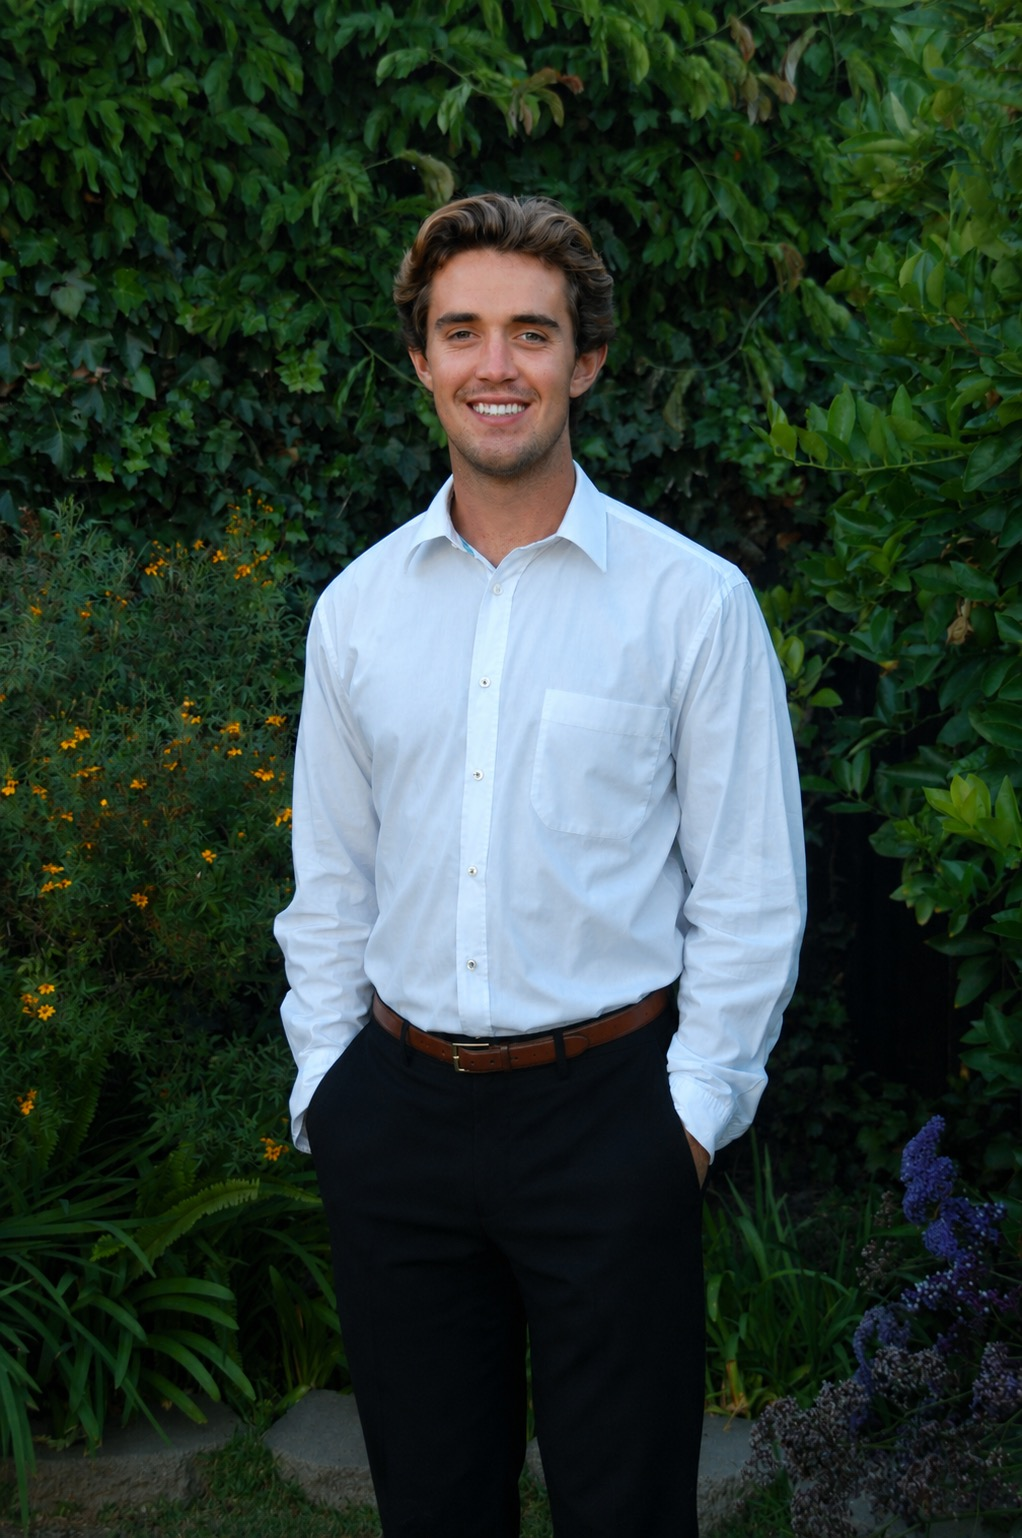
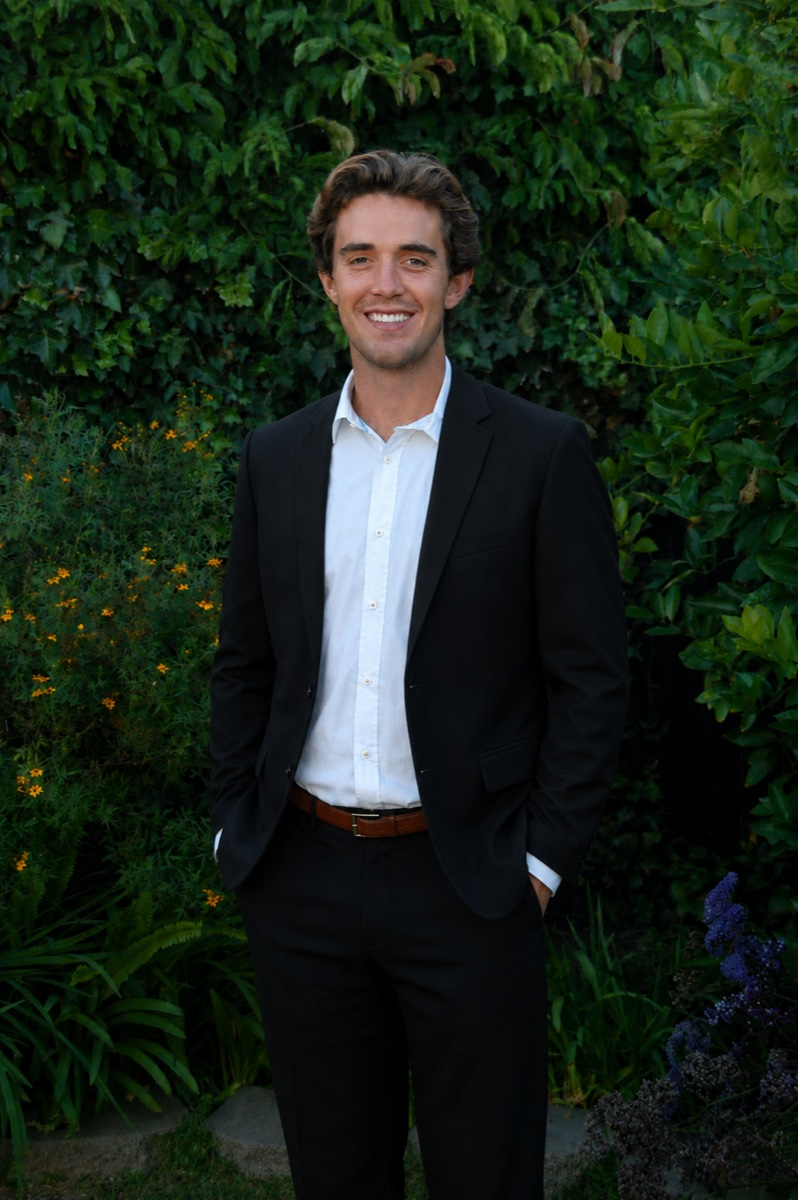
Update about page: corrected headshot, new bio layout, scroll reveal animations
- Replace mitchell.jpg with black blazer headshot
- Rewrite AboutSection with cleaner 3/4-aspect photo + decorative gold border, drop placeholder stats
- Add ScrollReveal client component (IntersectionObserver) + CSS utilities for staggered entrance animations on scroll

diff --git a/src/components/about/AboutSection.tsx b/src/components/about/AboutSection.tsx
@@ -1,124 +1,136 @@
 import Link from "next/link";
 import Image from "next/image";
 import { SITE_CONFIG } from "@/lib/constants";
-
-const STATS = [
-  { value: "0+",   label: "Years of Experience" },
-  { value: "$0M+", label: "Total Sales Volume" },
-  { value: "0+",   label: "Happy Clients" },
-  { value: "0+",   label: "Closed Deals" },
-];
+import ScrollReveal from "@/components/ui/ScrollReveal";
 
 export default function AboutSection() {
   return (
     <section id="about" style={{ backgroundColor: "#F5F4F1" }}>
       <div className="container-site py-24 lg:py-36">
-        <div className="grid lg:grid-cols-2 gap-16 lg:gap-24 items-center">
+        <div className="grid lg:grid-cols-[1fr_1.15fr] gap-16 lg:gap-28 items-start">
 
-          {/* Left: photo */}
-          <div className="relative">
-            <div
-              className="w-full bg-stone-300 overflow-hidden relative"
-              style={{ aspectRatio: "4/5", maxWidth: "480px" }}
-            >
-              <Image
-                src="/images/mitchell.jpg"
-                alt={SITE_CONFIG.agentName}
-                fill
-                className="object-cover"
-                style={{ objectPosition: "50% 15%", transform: "scale(1.05)", transformOrigin: "top center" }}
-                sizes="(max-width: 768px) 100vw, 480px"
-                priority
+          {/* ── Photo column ── */}
+          <ScrollReveal direction="left">
+            <div className="relative mx-auto lg:mx-0" style={{ maxWidth: "440px" }}>
+              {/* Main image */}
+              <div
+                className="relative overflow-hidden w-full"
+                style={{ aspectRatio: "3/4" }}
+              >
+                <Image
+                  src="/images/mitchell.jpg"
+                  alt={SITE_CONFIG.agentName}
+                  fill
+                  className="object-cover"
+                  style={{ objectPosition: "50% 12%" }}
+                  sizes="(max-width: 768px) 100vw, 440px"
+                  priority
+                />
+                {/* Subtle bottom fade so it blends into the section bg */}
+                <div
+                  className="absolute bottom-0 left-0 right-0 h-24 pointer-events-none"
+                  style={{ background: "linear-gradient(to top, #F5F4F1 0%, transparent 100%)" }}
+                />
+              </div>
+
+              {/* Decorative offset border */}
+              <div
+                className="absolute -bottom-3 -right-3 w-full pointer-events-none"
+                style={{
+                  aspectRatio: "3/4",
+                  border: "1px solid var(--color-gold)",
+                  opacity: 0.35,
+                }}
               />
             </div>
-            {/* Decorative offset border */}
-            <div
-              className="absolute -bottom-4 -right-4 w-full border border-[var(--color-gold)] pointer-events-none"
-              style={{ aspectRatio: "3/4", maxWidth: "480px", opacity: 0.4 }}
-            />
-          </div>
+          </ScrollReveal>
 
-          {/* Right: content */}
-          <div className="flex flex-col gap-8">
+          {/* ── Text column ── */}
+          <div className="flex flex-col gap-8 lg:pt-4">
 
-            {/* Heading with gold left border */}
-            <div className="flex items-center gap-5">
-              <div className="w-1 self-stretch" style={{ backgroundColor: "var(--color-gold)" }} />
-              <h2
-                className="font-serif font-semibold text-charcoal uppercase tracking-[0.12em]"
-                style={{ fontSize: "clamp(1.75rem, 3vw, 2.5rem)" }}
-              >
-                About Me
-              </h2>
-            </div>
+            <ScrollReveal delay={80}>
+              <div>
+                <p className="label-accent mb-4">About Mitchell</p>
+                <div className="divider-gold mb-7" />
+                <h2
+                  className="font-serif font-light text-charcoal"
+                  style={{ fontSize: "clamp(1.9rem, 3vw, 2.6rem)", lineHeight: 1.1 }}
+                >
+                  A Trusted Advisor in<br />
+                  <em>Every Transaction</em>
+                </h2>
+              </div>
+            </ScrollReveal>
 
-            {/* Bio */}
-            <div className="space-y-5 font-sans text-stone-500 leading-relaxed text-[15px] lg:text-left max-w-xl">
-              <p>
-                Born and raised in a small mountain town nestled in the Eastern Sierra Mountain range,
-                Mitchell brings a variety of experiences in the real estate industry. From commercial
-                acquisitions and asset management in big box industrial, to multifamily and creative
-                office, he is now settled in as a residential agent who provides a plethora of knowledge
-                that he brings to every transaction. Mitchell offers his clients a uniquely comprehensive
-                and seamless real estate experience.
-              </p>
-              <p>
-                After graduating from the University of Southern California where he earned a degree in
-                Business Administration (studying Real Estate Finance), Mitchell is left with strategic
-                marketing techniques and an analytical outlook to provide the absolute best opportunities
-                for clients.
-              </p>
+            <ScrollReveal delay={160}>
+              <div className="space-y-5 font-sans text-stone-500 leading-relaxed" style={{ fontSize: "15px" }}>
+                <p>
+                  Born and raised in a small mountain town nestled in the Eastern Sierra Mountain
+                  range, Mitchell brings a variety of experiences in the real estate industry. From
+                  commercial acquisitions and asset management in big box industrial, to multifamily
+                  and creative office, he is now settled in as a residential agent who provides a
+                  plethora of knowledge that he brings to every transaction.
+                </p>
+                <p>
+                  After graduating from the University of Southern California where he earned a
+                  degree in Business Administration (studying Real Estate Finance), Mitchell is left
+                  with strategic marketing techniques and an analytical outlook to provide the
+                  absolute best opportunities for clients.
+                </p>
+              </div>
+            </ScrollReveal>
 
-              {/* Pull quote */}
+            <ScrollReveal delay={240}>
               <blockquote
-                className="border-l-2 pl-5 py-1 font-serif font-light italic text-stone-600"
-                style={{ borderColor: "var(--color-gold)", fontSize: "clamp(1rem, 1.5vw, 1.1rem)", lineHeight: 1.7 }}
+                className="font-serif font-light italic text-stone-600 pl-6 py-1"
+                style={{
+                  borderLeft: "2px solid var(--color-gold)",
+                  fontSize: "clamp(1rem, 1.4vw, 1.1rem)",
+                  lineHeight: 1.75,
+                }}
               >
-                "What drew me to real estate wasn't the transaction side. It was the lifestyle side.
-                Being from the mountains, I know that where you live shapes how you live. That feeling
-                of walking into a place and knowing it's a fit. Being proud of where you wake up,
-                confident in the life you're living, genuinely happy with how your days unfold.
-                I wanted to help people find that."
+                "What drew me to real estate wasn't the transaction side. It was the lifestyle
+                side. Being from the mountains, I know that where you live shapes how you live —
+                that feeling of walking into a place and knowing it's a fit. I wanted to help
+                people find that."
               </blockquote>
+            </ScrollReveal>
 
-              <p>
-                Today, Mitchell thrives as a real estate professional with a true love for "home." He
-                brings a friendly, personable, and persistent approach driven by a client-first
-                philosophy. Mitchell is dedicated to making each step of this life-changing process as
-                smooth and rewarding as possible.
-              </p>
-              <p>
-                When Mitchell isn't showing property or out in the community, he is enjoying life by
-                the beach in San Clemente, surfing, golfing, hiking, cooking, and spending time with
-                friends and family.
-              </p>
-            </div>
+            <ScrollReveal delay={300}>
+              <div className="space-y-5 font-sans text-stone-500 leading-relaxed" style={{ fontSize: "15px" }}>
+                <p>
+                  Today, Mitchell thrives as a real estate professional with a true love for
+                  "home." He brings a friendly, personable, and persistent approach driven by a
+                  client-first philosophy — dedicated to making each step of this life-changing
+                  process as smooth and rewarding as possible.
+                </p>
+                <p>
+                  When he isn't showing property or out in the community, Mitchell is enjoying
+                  life by the beach in San Clemente — surfing, golfing, hiking, cooking, and
+                  spending time with friends and family.
+                </p>
+              </div>
+            </ScrollReveal>
 
-            {/* Stats */}
-            <div className="grid grid-cols-2 sm:grid-cols-4 gap-6 py-8 border-y border-stone-200">
-              {STATS.map((stat) => (
-                <div key={stat.label} className="flex flex-col items-center gap-1 text-center">
-                  <span
-                    className="font-serif font-semibold text-charcoal"
-                    style={{ fontSize: "clamp(1.5rem, 2.5vw, 2rem)" }}
-                  >
-                    {stat.value}
-                  </span>
-                  <span className="font-sans text-xs text-stone-400 tracking-wide leading-tight">
-                    {stat.label}
-                  </span>
+            <ScrollReveal delay={360}>
+              <div className="pt-2 flex items-center gap-6">
+                <Link
+                  href="/contact"
+                  className="inline-flex items-center justify-center font-sans text-sm font-medium tracking-widest uppercase text-white py-4 px-10 transition-all duration-300 hover:opacity-85"
+                  style={{ backgroundColor: "var(--color-gold)" }}
+                >
+                  Get in Touch
+                </Link>
+                <div>
+                  <p className="font-sans text-xs text-stone-400 tracking-wider uppercase">
+                    {SITE_CONFIG.brokerageName}
+                  </p>
+                  <p className="font-sans text-xs text-stone-400 tracking-wider mt-0.5">
+                    {SITE_CONFIG.brokerageLicense}
+                  </p>
                 </div>
-              ))}
-            </div>
-
-            {/* CTA */}
-            <Link
-              href="/contact"
-              className="inline-flex items-center justify-center font-sans text-sm font-medium tracking-widest uppercase text-white py-4 px-10 transition-all duration-300 hover:opacity-90"
-              style={{ backgroundColor: "var(--color-gold)" }}
-            >
-              Contact Me
-            </Link>
+              </div>
+            </ScrollReveal>
 
           </div>
         </div>

diff --git a/src/components/ui/ScrollReveal.tsx b/src/components/ui/ScrollReveal.tsx
@@ -1,0 +1,49 @@
+"use client";
+
+import { useEffect, useRef, ReactNode } from "react";
+
+interface ScrollRevealProps {
+  children: ReactNode;
+  className?: string;
+  delay?: number; // ms
+  direction?: "up" | "left" | "right" | "none";
+}
+
+export default function ScrollReveal({
+  children,
+  className = "",
+  delay = 0,
+  direction = "up",
+}: ScrollRevealProps) {
+  const ref = useRef<HTMLDivElement>(null);
+
+  useEffect(() => {
+    const el = ref.current;
+    if (!el) return;
+
+    const observer = new IntersectionObserver(
+      ([entry]) => {
+        if (entry.isIntersecting) {
+          setTimeout(() => {
+            el.classList.add("sr-visible");
+          }, delay);
+          observer.unobserve(el);
+        }
+      },
+      { threshold: 0.1, rootMargin: "0px 0px -48px 0px" }
+    );
+
+    observer.observe(el);
+    return () => observer.disconnect();
+  }, [delay]);
+
+  return (
+    <div
+      ref={ref}
+      className={`sr-hidden sr-${direction} ${className}`}
+      style={{ willChange: "opacity, transform" }}
+    >
+      {children}
+    </div>
+  );
+}

diff --git a/src/app/globals.css b/src/app/globals.css
@@ -107,4 +107,24 @@
   .animate-scroll-line {
     animation: scroll-line 2s ease-in-out infinite;
   }
+
+  /* ── Scroll reveal ── */
+  .sr-hidden {
+    opacity: 0;
+    transition: opacity 0.75s cubic-bezier(0.4, 0, 0.2, 1),
+                transform 0.75s cubic-bezier(0.4, 0, 0.2, 1);
+  }
+  .sr-up    { transform: translateY(36px); }
+  .sr-left  { transform: translateX(-36px); }
+  .sr-right { transform: translateX(36px); }
+  .sr-none  { transform: none; }
+
+  .sr-visible {
+    opacity: 1 !important;
+    transform: none !important;
+  }
+
+  @media (prefers-reduced-motion: reduce) {
+    .sr-hidden { opacity: 1; transform: none; transition: none; }
+  }
 }